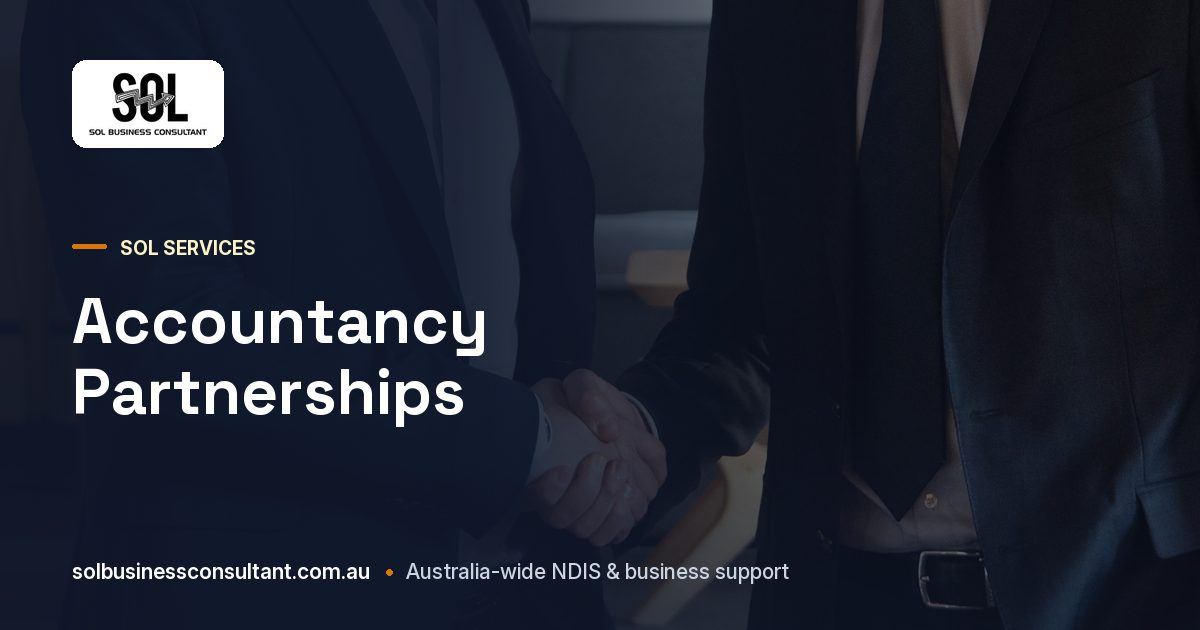
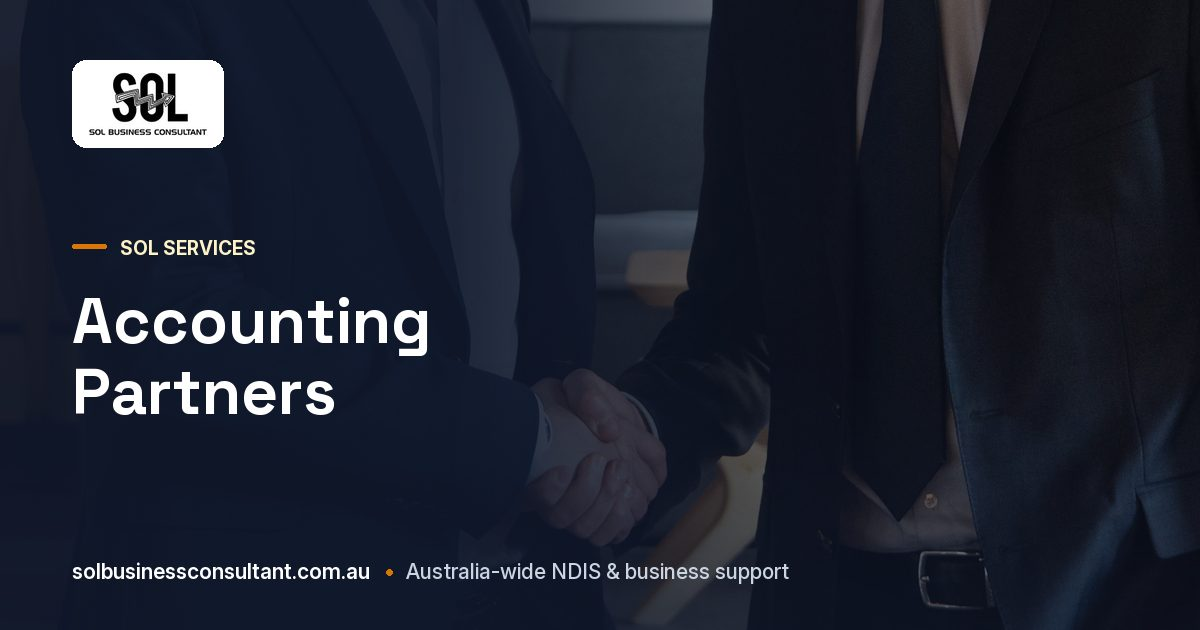
v2.24.1: share images for every public page and product
- Share cards regenerated from the current content: the renamed finance
  services show their new names, and Bookkeeping Support and Finance
  Broker Referrals get their own cards again (they had fallen back to the
  generic card after the address change). Cards for old addresses removed.
- New cards for Training Courses and every WooCommerce package product
  (product pages used the generic card).
- inc/seo.php picks product--<slug>.jpg for product pages; course
  products keep their own thumbnails.

Changed region(s): [[0.2775, 0.4825, 0.4008, 0.6937]]

diff --git a/wp-content/themes/Sol-BusinessConsultant/style.css b/wp-content/themes/Sol-BusinessConsultant/style.css
@@ -4,7 +4,7 @@ Theme URI: https://www.solbusinessconsultant.com.au/
 Description: Standalone theme in the SOL Training Academy design, built with Secure Custom Fields (no Elementor needed). Header, footer, page sections, WooCommerce checkout styling and the SOL Setup importer. See README.md.
 Author: Zain Abbas
 Author URI: https://zainabbas.pro/
-Version: 2.24.0
+Version: 2.24.1
 Requires at least: 6.4
 Requires PHP: 7.4
 Tested up to: 6.8

diff --git a/wp-content/themes/Sol-BusinessConsultant/_dev/build/share-cards.py b/wp-content/themes/Sol-BusinessConsultant/_dev/build/share-cards.py
@@ -158,5 +158,37 @@ for lst in ('pages', 'services', 'posts'):
         title = TITLES.get(path, it['title'])
         card(photo, EYEBROW[lst], title, os.path.join(OUT, key + '.jpg'))
         made.append(key)
+# Live pages that aren't in the seed.
+EXTRA = {
+    'training-courses': ('training-workshop-room.webp', 'SOL Training Academy', 'NDIS Support Coordinator Training Courses'),
+}
+for key, (photo, eyebrow, title) in EXTRA.items():
+    card(photo, eyebrow, title, os.path.join(OUT, key + '.jpg'))
+    made.append(key)
+
+# WooCommerce package products (product page address = WordPress slug of the product name).
+import re
+PRODUCT_PHOTO = {
+    'SOL-NDIS': 'ndis-registration-support-worker.webp', 'SOL-SCT': 'support-coordination-training.webp',
+    'SOL-AUTO': 'software-automation-spreadsheet.webp', 'SOL-FIN': 'bookkeeping-bas-desk.webp', 'SOL-MKT': 'marketing-packages-team.webp',
+}
+def slug(name):
+    return re.sub(r'-+', '-', re.sub(r'[^a-z0-9]+', '-', name.lower())).strip('-')
+for pr in seed.get('products', []):
+    photo = next((v for k, v in PRODUCT_PHOTO.items() if pr['sku'].startswith(k)), DEFAULT_PHOTO)
+    title = re.sub(r'\s*\([^)]*\)\s*$', '', pr['name']).replace(' – ', ': ')
+    key = 'product--' + slug(pr['name'])
+    card(photo, 'SOL Packages', title, os.path.join(OUT, key + '.jpg'))
+    made.append(key)
+card('home-one-stop-partner.webp', 'SOL Payments', 'Make a Service Payment', os.path.join(OUT, 'product--service-payment.jpg'))
+made.append('product--service-payment')
+
 card(DEFAULT_PHOTO, 'Australian-owned consultancy', 'NDIS Registration, Training & Business Consulting', os.path.join(OUT, 'default.jpg'))
-print(len(made) + 1, 'cards')
+made.append('default')
+
+# Remove cards for pages that no longer exist under that address (e.g. renamed services).
+for f in os.listdir(OUT):
+    if f.endswith('.jpg') and f[:-4] not in made:
+        os.remove(os.path.join(OUT, f))
+        print('removed', f)
+print(len(made), 'cards')

diff --git a/wp-content/themes/Sol-BusinessConsultant/functions.php b/wp-content/themes/Sol-BusinessConsultant/functions.php
@@ -8,7 +8,7 @@ if ( ! defined( 'ABSPATH' ) ) {
  * SOL Training Academy design for WordPress, built with Secure Custom Fields (no Elementor).
  * Setup: Appearance → SOL Setup. Field reference: _dev/FIELD-REFERENCE.md
  */
-define( 'SOL_THEME_VERSION', '2.24.0' );
+define( 'SOL_THEME_VERSION', '2.24.1' );
 
 // Never print PHP notices and warnings on screen (admin or public), even if WP_DEBUG_DISPLAY is on in
 // wp-config.php: plugin notices were showing at the top of the dashboard. Errors still go to the server's

diff --git a/wp-content/themes/Sol-BusinessConsultant/inc/seo.php b/wp-content/themes/Sol-BusinessConsultant/inc/seo.php
@@ -46,6 +46,9 @@ function sol_share_card_key() {
 	if ( 'post' === $post->post_type ) {
 		return 'post--' . $post->post_name;
 	}
+	if ( 'product' === $post->post_type ) {
+		return 'product--' . $post->post_name;
+	}
 	return '';
 }
 
